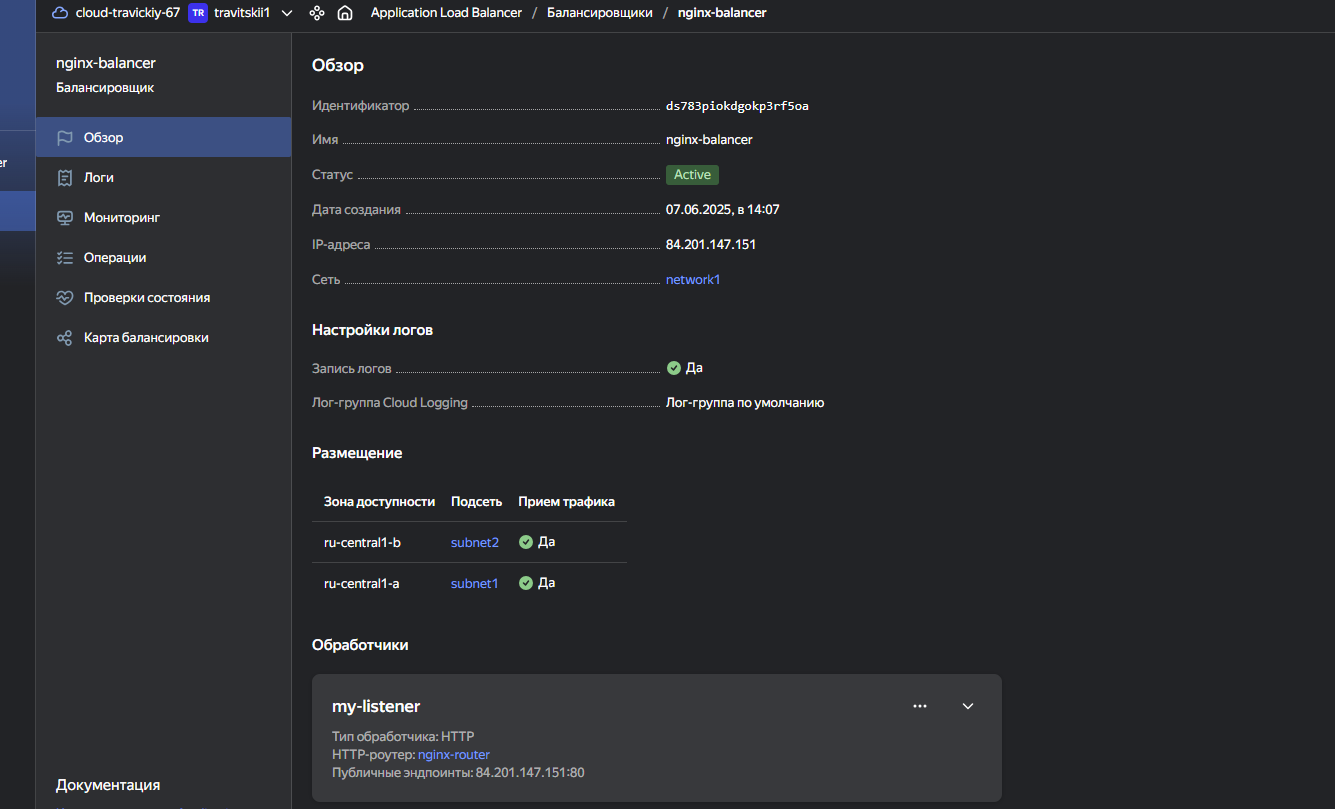
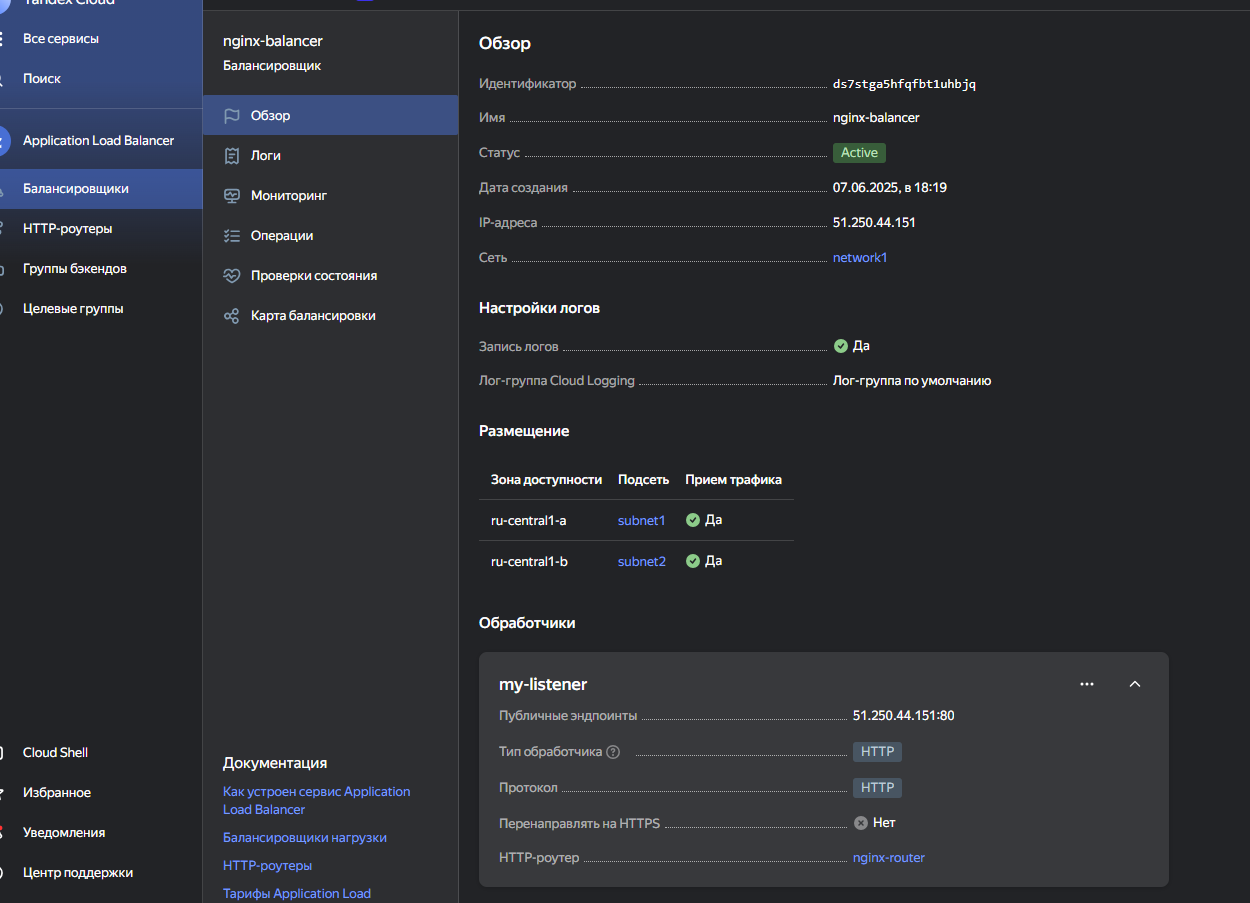
main, komment

diff --git a/README.md b/README.md
@@ -1,6 +1,13 @@
 # Травицкий Сергей
 #  Дипломная работа по профессии «Системный администратор»
 
+# Доступ к инфраструктуре: 
+
+*Сайт: http://51.250.44.151/*
+*kibana: http://158.160.187.43:5601/*
+*zbbix: http://158.160.147.241/zabbix  Логин: Admin  Пароль: zabbix*
+*grafana http://158.160.147.241:3000  Логин: diplom  Пароль: diplom*
+ 
 Содержание
 ==========
 * [Задача](#Задача)
